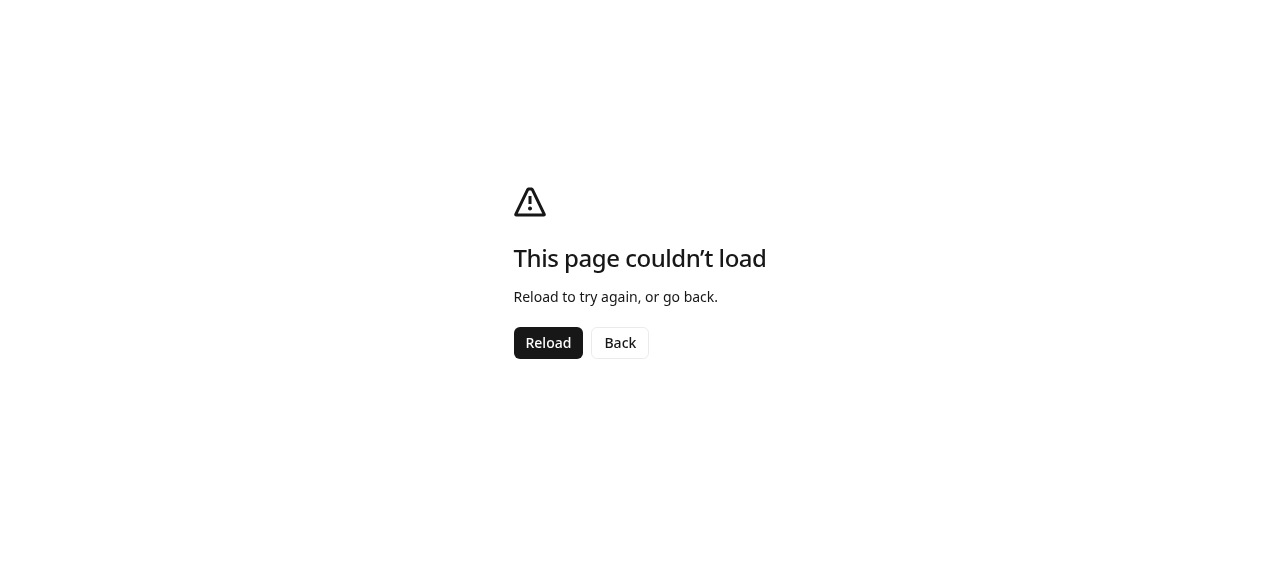
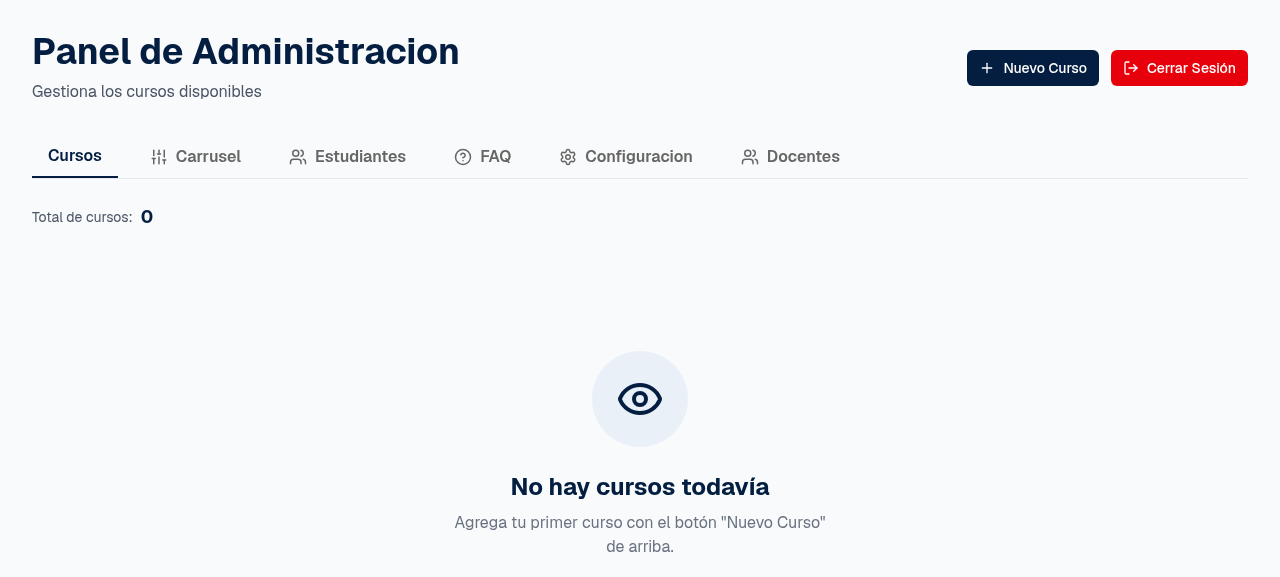
fix: remove debug ErrorBoundary, finalize working admin dashboard

diff --git a/app/[schoolId]/admin/page.tsx b/app/[schoolId]/admin/page.tsx
@@ -1,34 +1,9 @@
 'use client';
 
 import { useRouter, useParams } from 'next/navigation';
-import { useEffect, Component } from 'react';
+import { useEffect } from 'react';
 import { useAuth } from '@/context/AuthContext';
 import AdminDashboard from '@/components/admin-dashboard';
-
-class ErrorBoundary extends Component<{ children: React.ReactNode }, { error: Error | null }> {
-  state = { error: null };
-  static getDerivedStateFromError(error: Error) { return { error }; }
-  render() {
-    if (this.state.error) {
-      return (
-        <div className="flex items-center justify-center min-h-screen bg-gray-50">
-          <div className="bg-white rounded-xl shadow-lg p-8 max-w-2xl w-full mx-4">
-            <h2 className="text-xl font-bold text-red-600 mb-4">Error al cargar el panel</h2>
-            <pre className="text-sm text-gray-700 bg-gray-100 p-4 rounded overflow-auto max-h-64">
-              {(this.state.error as Error).message}
-              {'\n'}
-              {(this.state.error as Error).stack}
-            </pre>
-            <button onClick={() => window.location.reload()} className="mt-4 px-4 py-2 bg-blue-900 text-white rounded-lg">
-              Recargar
-            </button>
-          </div>
-        </div>
-      );
-    }
-    return this.props.children;
-  }
-}
 
 export default function AdminPage() {
   const router = useRouter();
@@ -60,10 +35,8 @@ export default function AdminPage() {
   }
 
   return (
-    <ErrorBoundary>
-      <div className="min-h-screen bg-gray-50">
-        <AdminDashboard />
-      </div>
-    </ErrorBoundary>
+    <div className="min-h-screen bg-gray-50">
+      <AdminDashboard />
+    </div>
   );
 }